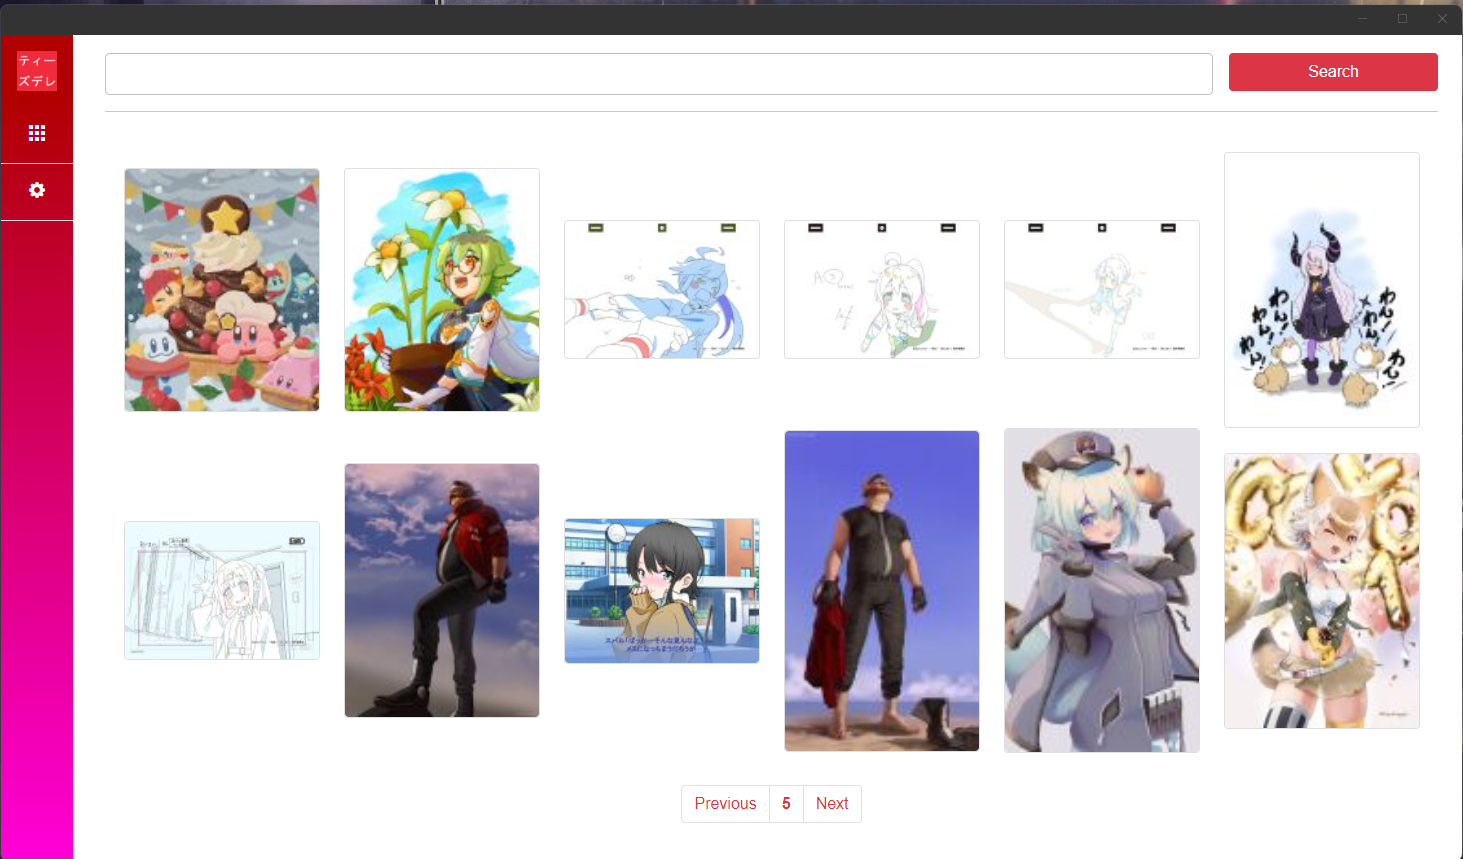
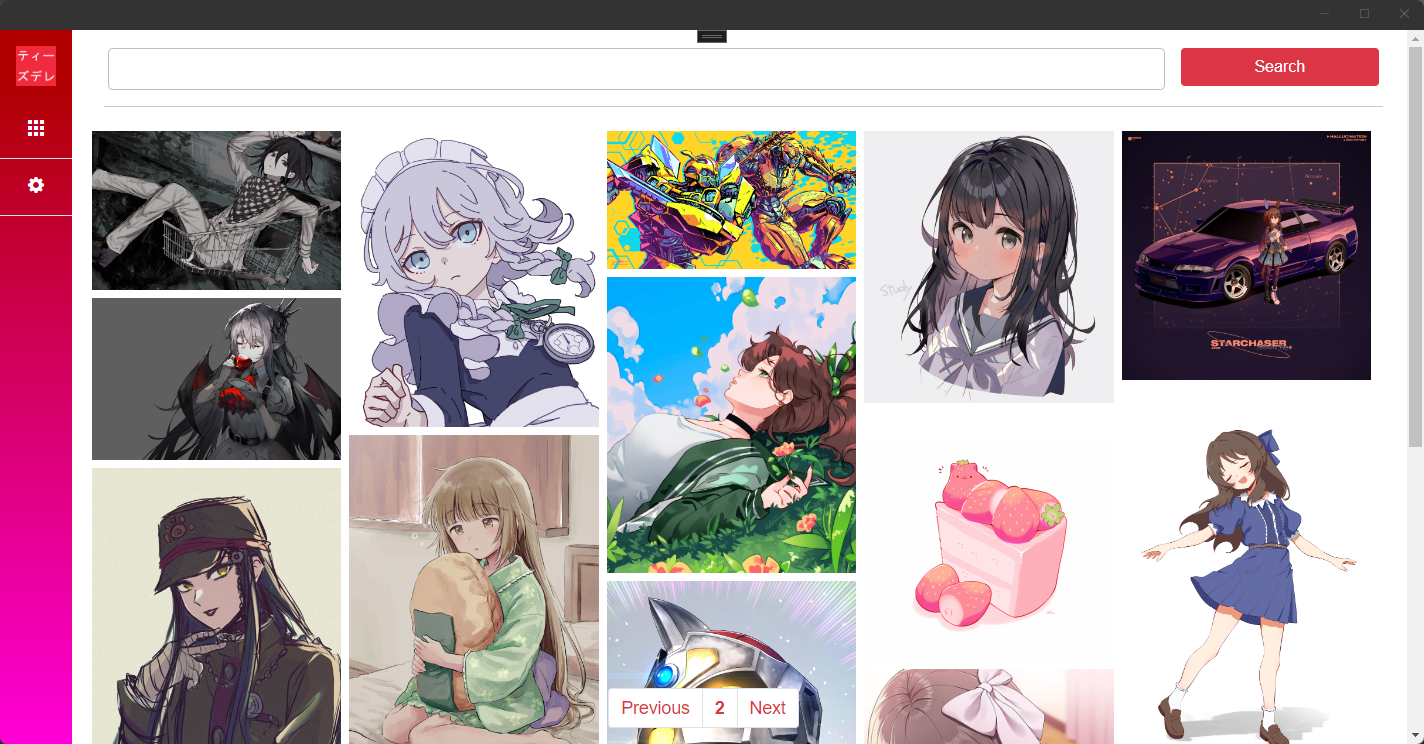
Add kona-chan to msstore, add better grid display

diff --git a/Hiyakasudere/Data/Internal/Config/AppConfigService.cs b/Hiyakasudere/Data/Internal/Config/AppConfigService.cs
@@ -28,13 +28,9 @@ namespace Hiyakasudere.Data.Internal.Config
         {
             this.fileManager = fileManager;
             
-<<<<<<< HEAD
-            SelectedSource = 2;
-            PostsPerPage = 18;
-=======
+
             SelectedSource = 1;
             PostsPerPage = 15;
->>>>>>> master
             IsNSFW = false;
             ImageSavePath = "";
             BlackListedTags = new();
